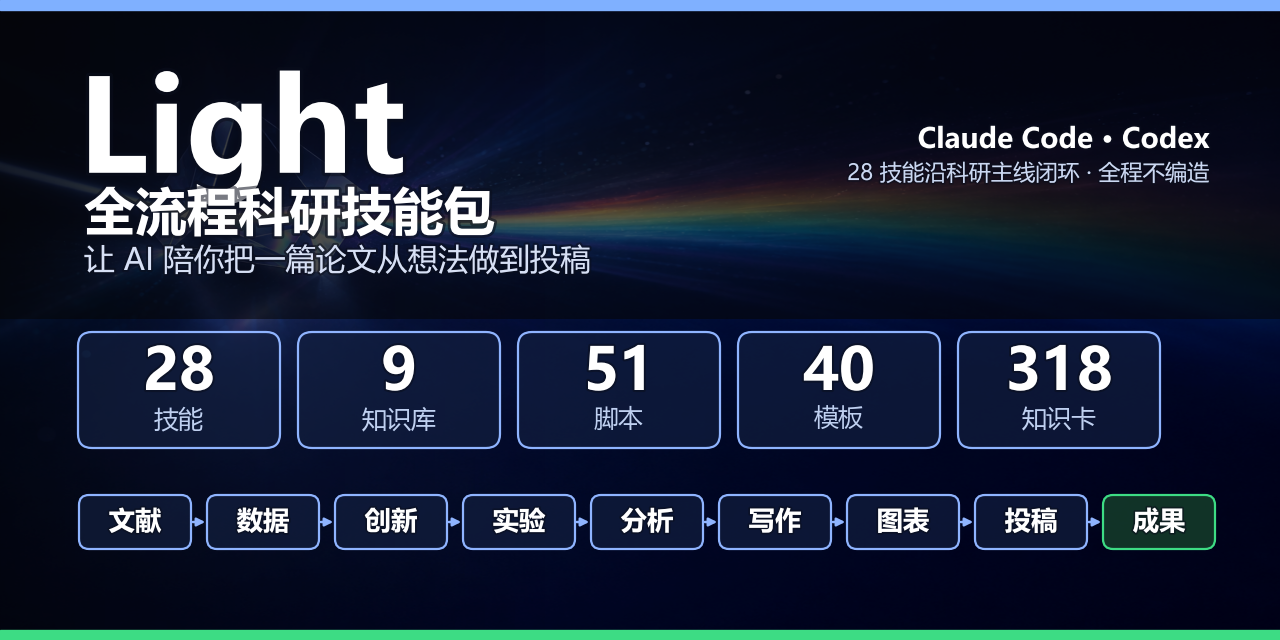
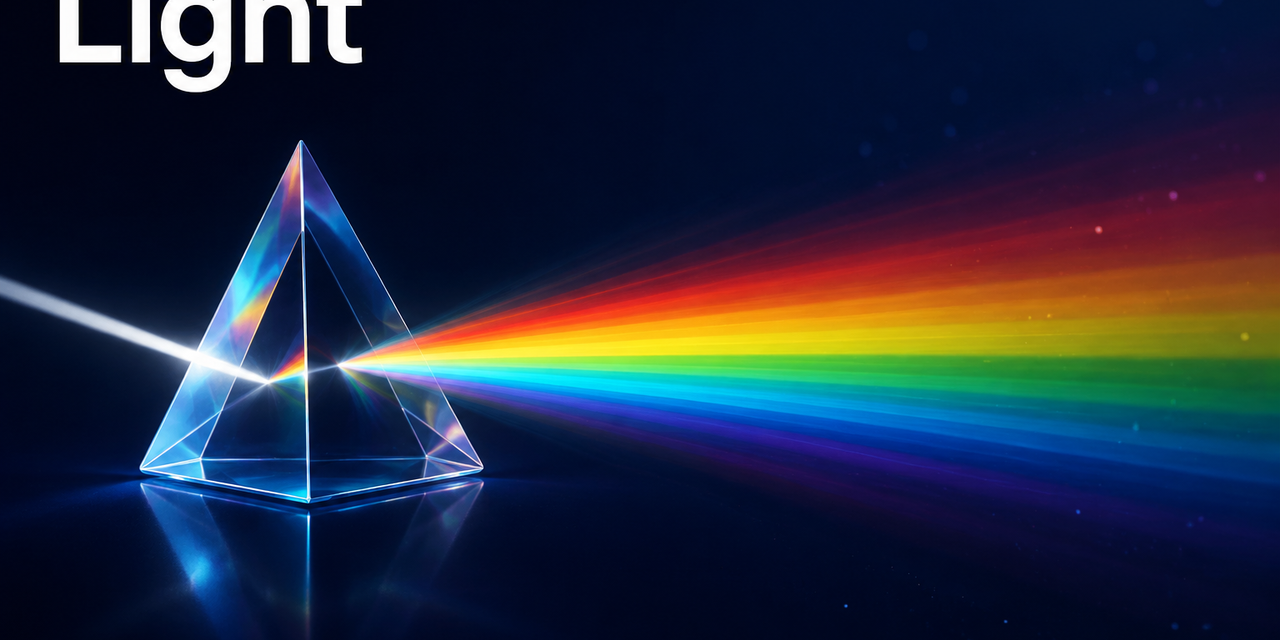
门面视觉:social-preview 与 pipeline 改纯生图模型出图
按用户要求两图不再用"AI背景+程序化文字"混合,改纯 gpt-image-2 出图:
social-preview 让模型直接出带 "Light" 品牌词的棱镜光谱 banner(短英文渲染稳),
裁成 1280×640;pipeline 改抽象流程图(9 个发光光谱节点串图标示意文献→成果,无文字)。
中文标语/精确技能计数不进生图(中文易乱),由 README 周边文字与技能总览表承载,
链路节下方纯文本版链路仍列全 28 技能,信息不丢;alt-text 同步去掉具体计数。
旧程序化脚本与 svg 保留作无 key 降级路线。留痕见 _verification_log/R-facade-imggen-assets.md。

diff --git a/_verification_log/R-facade-imggen-assets.md b/_verification_log/R-facade-imggen-assets.md
@@ -48,3 +48,34 @@ python assets/make_social_preview_hybrid.py
 ```
 
 注：gpt-image seed 不稳，逐次重生构图会变；本批产物已入仓，重生用于迭代而非精确复现。
+
+## 第二轮（2026-06-13）：social-preview 与 pipeline 改纯 AI 生图
+
+用户要求这两张不再用"AI 背景 + 程序化文字"混合，改**纯生图模型**出图。
+实测：gpt-image-2 渲染**短英文品牌词**（"Light"）稳定、无乱码；故 social 让模型直接出带
+"Light" 字样的 banner，pipeline 不含任何文字（用图标+流向表达阶段）。中文标语/精确技能
+标签**不进生图**（中文渲染易乱），改由 README 周边文字与下方技能总览表承载。
+
+- `assets/social-preview.png`（1280×640）：纯 AI banner，含 "Light" 品牌词 + 棱镜光谱。
+  生成 16:9（1536×1024）后 PIL 居中裁成 2:1 再缩 1280×640（保住左上 Light 与棱镜）。
+- `assets/pipeline.png`（1280×853）：纯 AI 抽象流程图——9 个发光光谱节点串联，节点内
+  极简图标（书/数据条/灯泡/齿轮/图表/文档/图片/纸飞机/奖杯）示意"文献→成果"，无文字。
+  **诚实说明**：纯 AI 版丢了旧 svg 的"17 手动+11 常驻/28 技能"精确标签，但 README 链路节
+  下方的纯文本版链路 + 技能总览表仍列全 28 技能，信息不丢；alt-text 同步改为不含具体计数。
+- 旧资产保留：程序化 `make_pipeline_svg.py` / `make_social_preview.py` /
+  `make_social_preview_hybrid.py` 与 `assets/pipeline.svg` / `assets/social_bg.png` 仍在仓库，
+  作为无 key 降级路线与可复现脚本（README 已不引用 svg）。
+
+```bash
+# social-preview（纯 AI，含品牌词）
+python skills/light-slides/scripts/imagegen.py --backend openai --size 16:9 \
+  --type background --timeout 300 -o social_ai.png \
+  --prompt "A polished GitHub social banner ... the single large word \"Light\" ... Only the word \"Light\", no other text ..."
+# PIL 居中裁 2:1 -> 1280x640 -> assets/social-preview.png
+
+# pipeline（纯 AI，无文字）
+python skills/light-slides/scripts/imagegen.py --backend openai --size 16:9 \
+  --type illustration --timeout 300 -o pipeline_ai.png \
+  --prompt "A premium horizontal infographic ... flowing path of connected glowing nodes ... minimalist icons inside nodes ... No text, no letters, no words, no numbers, no watermark."
+# PIL 缩 1280 宽 -> assets/pipeline.png
+```

diff --git a/README.en.md b/README.en.md
@@ -183,7 +183,7 @@ No need to invoke — they kick in automatically on relevant tasks and guard qua
 Skills aren't isolated tools — they hand off along one research throughline:
 
 <p align="center">
-  <img src="assets/pipeline.svg" alt="Light research throughline: 17 manual skills closing the loop + 11 always-on skills backstopping" width="860">
+  <img src="assets/pipeline.png" alt="Light research throughline: from literature to result" width="860">
 </p>
 
 <details>

diff --git a/README.md b/README.md
@@ -183,7 +183,7 @@ powershell -ExecutionPolicy Bypass -File install.ps1 -Client claude   # 只装 C
 技能不是孤立工具,而是沿一条科研主线相互交接:
 
 <p align="center">
-  <img src="assets/pipeline.svg" alt="Light 科研主线技能链路图:17 手动技能闭环 + 11 常驻技能兜底" width="860">
+  <img src="assets/pipeline.png" alt="Light 科研主线示意:从文献到成果的流程图" width="860">
 </p>
 
 <details>